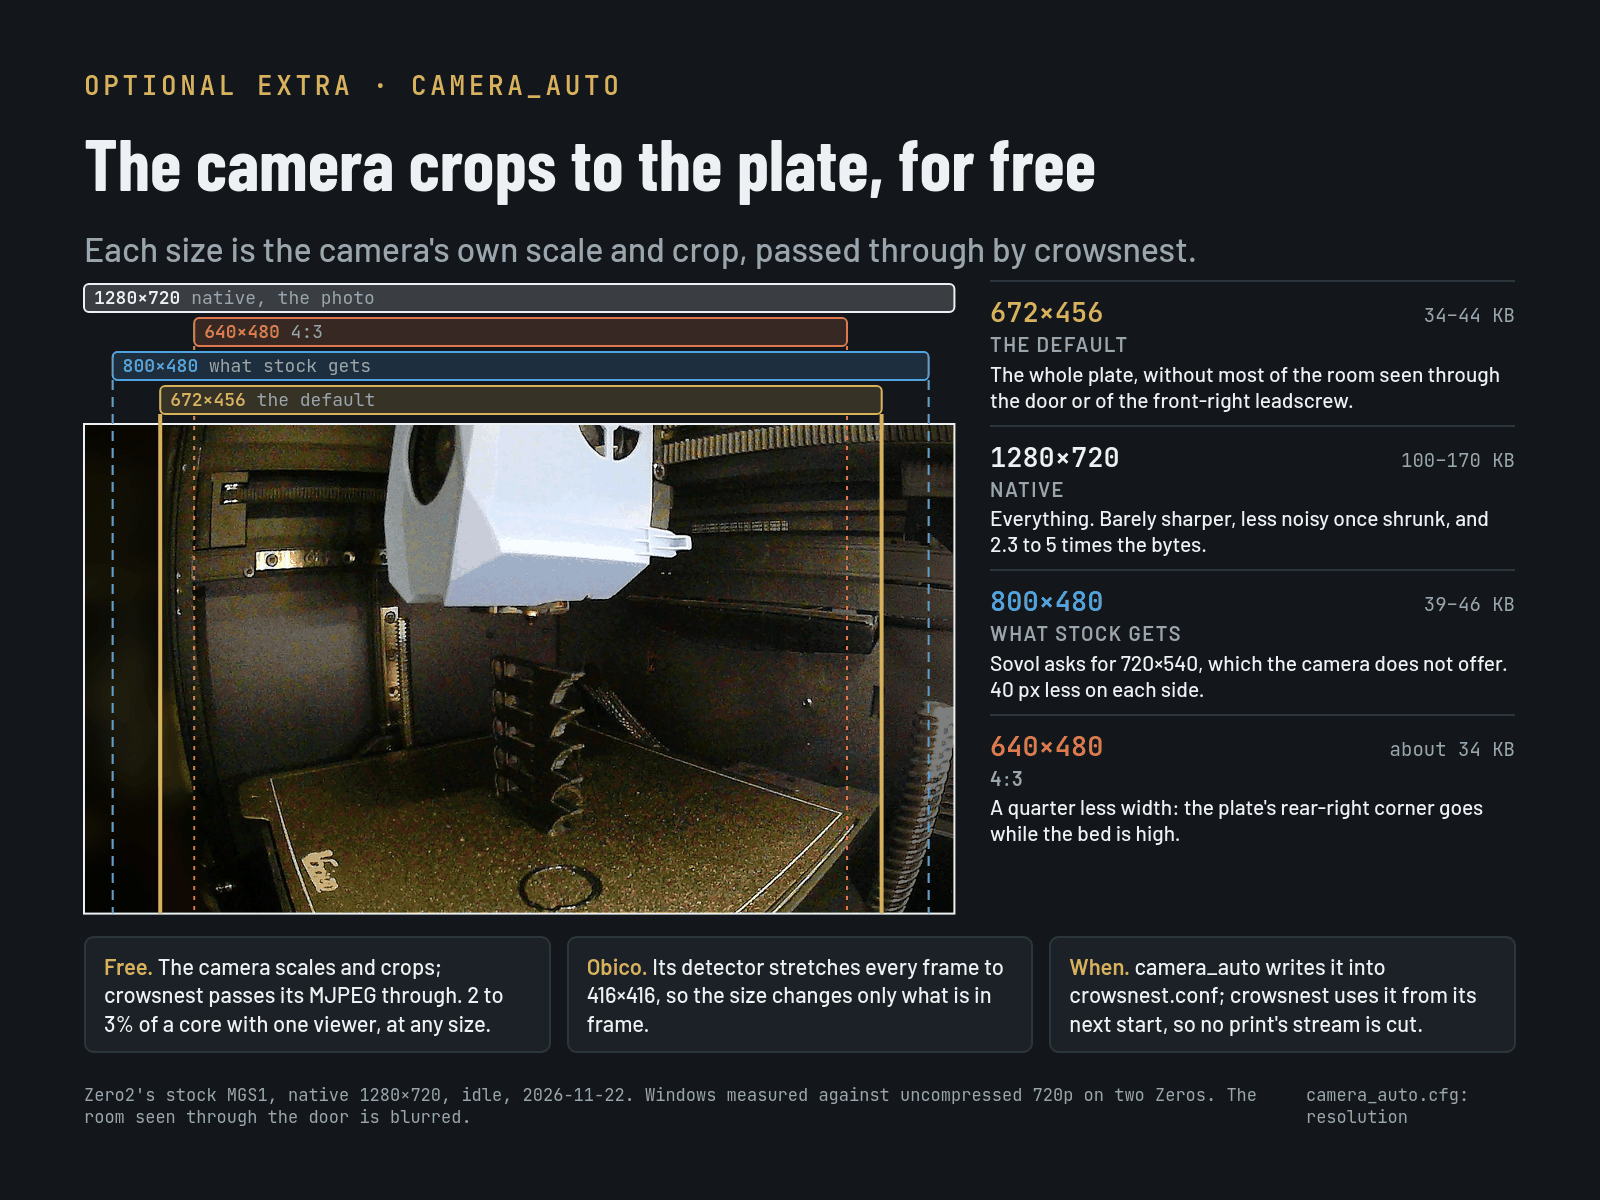
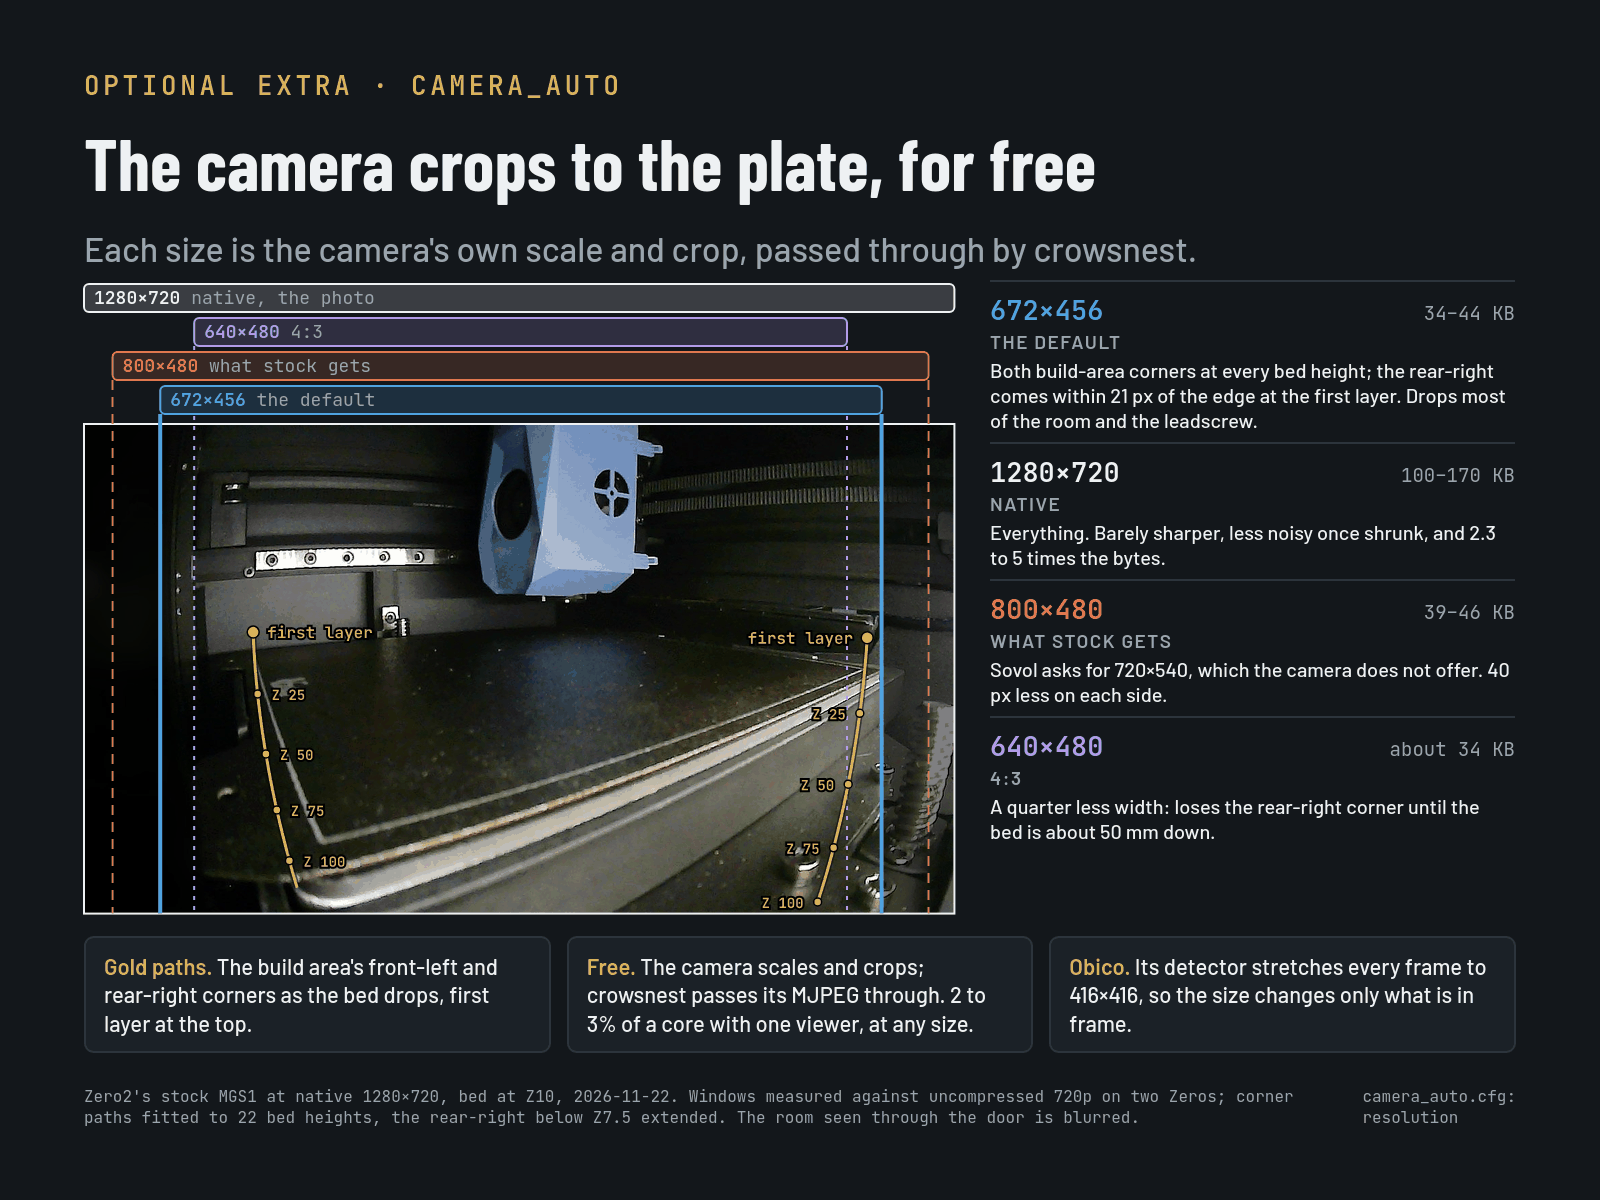
camera_auto figure: corner paths, the scheme's colours, a neutral photo
The framing figure now draws the build area's front-left and rear-right
silkscreen corners as the bed drops, from 22 bed heights on Zero2: 672x456 keeps
both at every height, the rear-right closest at the first layer, about 20 px
inside its edge; 640x480 loses the rear-right until the bed is about 50 mm
down. Stock's 800x480 is red and the default blue, as in the other figures.

The photo is re-shot at Z10 with the toolhead parked rear-left and the camera's
white balance settled: the back wall reads neutral. The earlier one was golden
because its white balance was read too soon after an exposure change. The cfg,
INSTALL, changelog and alt texts say the same about the corners.

diff --git a/INSTALL.md b/INSTALL.md
@@ -361,7 +361,7 @@ What it does, once installed:
   not cut. The camera does the scaling and cropping itself and crowsnest passes
   it through, so it costs no CPU.
 
-<p><img src="docs/images/camera-framing.png" alt="The stock camera's native 1280 by 720 frame on a Zero, with what each size keeps: 800 by 480, what stock gets, loses about 40 px on each side; 672 by 456, the default, keeps the whole plate and drops most of the room seen through the door and of the front-right leadscrew; 640 by 480 is 4:3 and cuts into the plate's rear-right corner"></p>
+<p><img src="docs/images/camera-framing.png" alt="The stock camera's native 1280 by 720 frame on a Zero, with what each size keeps, and the paths of the build area's front-left and rear-right corners as the bed drops from the first layer to Z 100: 672 by 456, the default, keeps both corners at every height, the rear-right within about 20 px of its edge at the first layer, and drops most of the room seen through the door; 800 by 480, what stock gets, loses about 40 px on each side; 640 by 480 is 4:3 and loses the rear-right corner until the bed is about 50 mm down"></p>
 
 To pick another size, uncomment `resolution:` in `camera_auto.cfg` and set it
 to one of the camera's own:
@@ -371,7 +371,7 @@ to one of the camera's own:
 | `672x456` | the default: the whole plate, without most of the room seen through the door or of the front-right leadscrew | 34–44 KB |
 | `1280x720` | native, the whole sensor: barely sharper, less noisy once a viewer shrinks it | 100–170 KB |
 | `800x480` | what a stock image gets: Sovol asks for 720×540, which the camera does not offer | 39–46 KB |
-| `640x480` | 4:3, a quarter less width: cuts the plate's rear-right corner while the bed is high | about 34 KB |
+| `640x480` | 4:3, a quarter less width: loses the build area's rear-right corner until the bed is about 50 mm down | about 34 KB |
 | `keep` | leaves crowsnest's resolution as it is | |
 
 Then restart the Klipper service while idle, run `CAMERA_AUTO PHASE=start` (or

diff --git a/README.md b/README.md
@@ -40,7 +40,7 @@ are starting points, not evidence that a nozzle fits or has been flow-calibrated
 <img src="docs/images/cooldown.png" width="49%" alt="The controlled cooldown against the bed switched off, as stock does">
 <img src="docs/images/fan-strength.png" width="49%" alt="How much each fan pulls from the plate, behind the cooldown fan weighting">
 <img src="docs/images/camera-auto.png" width="49%" alt="camera_auto over four prints on a Zero's stock camera as a desk lamp came and went: each print's end tries up to three exposures with the part in frame and keeps the sharpest per unit of noise under 2% clipped, and its plate brightness becomes the next start's target. With the lamp aimed in, the next start read 79 and stepped back to 44 against 43; with the lamp off it climbed to the 600 exposure cap. Gain stays at 0, and the camera's own white balance stays on">
-<img src="docs/images/camera-framing.png" width="49%" alt="What each stream size keeps of the stock camera's native 1280 by 720 frame on a Zero: 672 by 456, the default, keeps the whole plate and drops most of the room seen through the door; 800 by 480, what stock gets, loses about 40 px on each side; 640 by 480 cuts the plate's rear-right corner while the bed is high. The camera scales and crops, and crowsnest passes it through">
+<img src="docs/images/camera-framing.png" width="49%" alt="What each stream size keeps of the stock camera's native 1280 by 720 frame on a Zero, with the paths of the build area's front-left and rear-right corners as the bed drops: 672 by 456, the default, keeps both corners at every height and drops most of the room seen through the door; 800 by 480, what stock gets, loses about 40 px on each side; 640 by 480 loses the rear-right corner until the bed is about 50 mm down. The camera scales and crops, and crowsnest passes it through">
 </p>
 
 ## Try the profiles

diff --git a/CHANGELOG.md b/CHANGELOG.md
@@ -6,7 +6,8 @@
 
 - **The stock camera now streams at 672×456,** a size the camera makes itself:
   it scales the full sensor height down by 1.58 and crops the sides. That keeps
-  the whole plate and drops most of the room seen through the door and of the
+  the whole plate, with both build-area corners near the sides in frame at
+  every bed height, and drops most of the room seen through the door and of the
   front-right leadscrew. Stock asks crowsnest for 720×540, which the camera
   does not offer, and lands on 800×480.
 - **It costs nothing extra.** Crowsnest passes the camera's MJPEG through:
